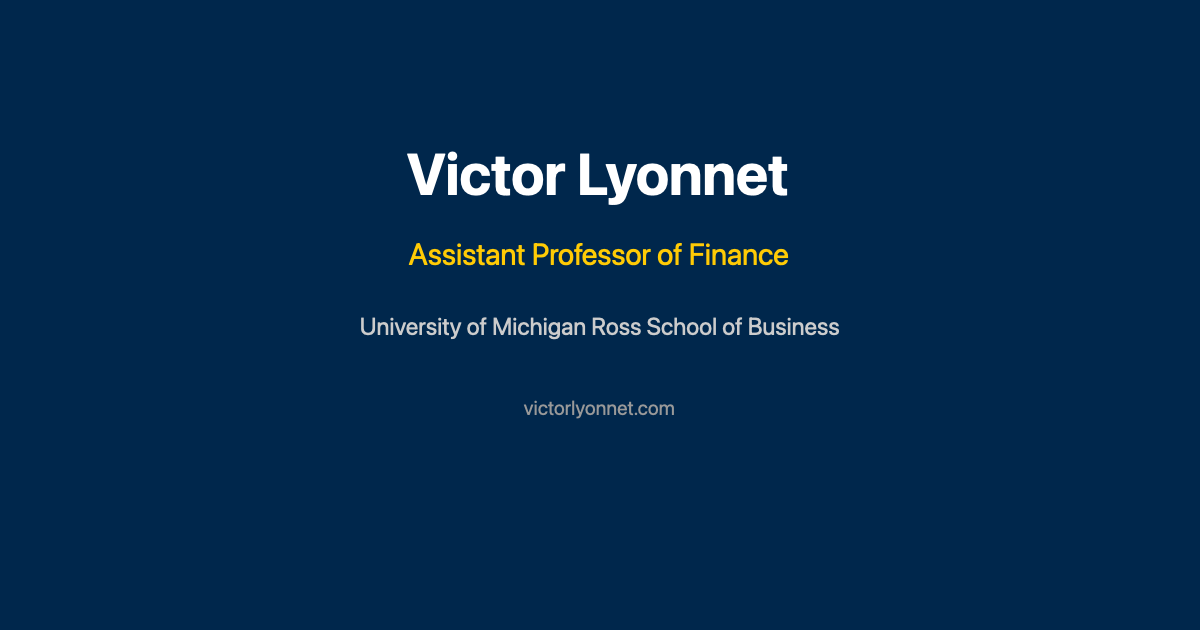
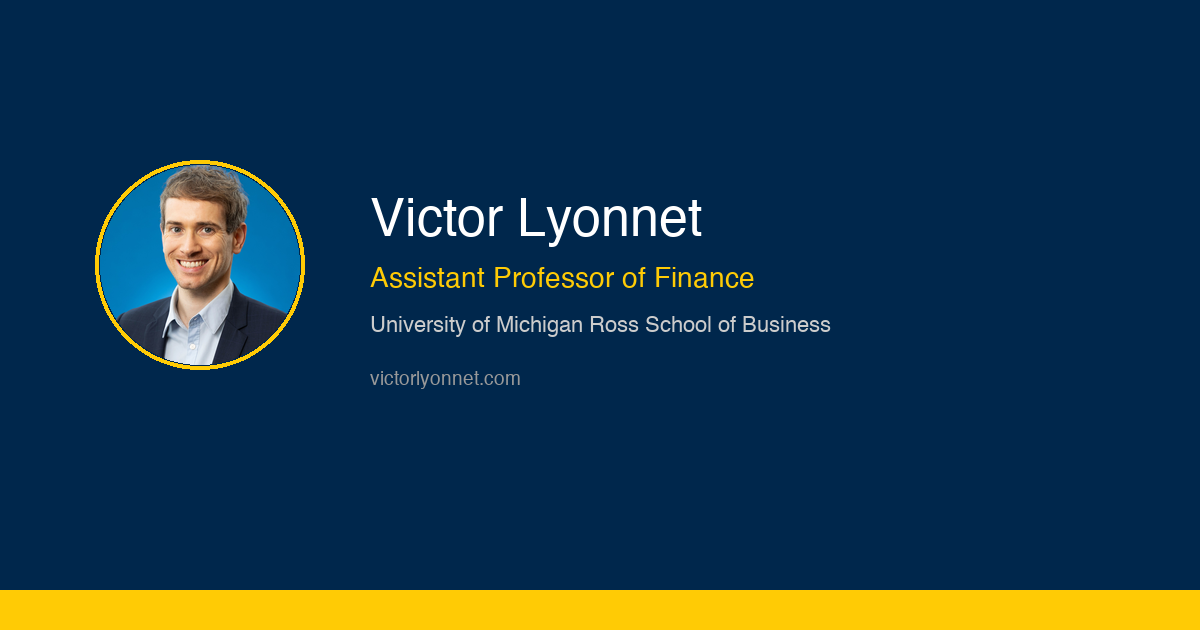
Fix duplicate name in title tag, add photo to OG sharing image
- Change page title from "Victor Lyonnet | Assistant Professor of Finance"
  to "Assistant Professor of Finance" to avoid duplication when Hugo appends
  the site title. Result: "Assistant Professor of Finance | Victor Lyonnet"
- Regenerate OG sharing image with circular headshot, maize border ring,
  and text on the right. Used for LinkedIn, Twitter, and Facebook previews.

diff --git a/content/_index.md b/content/_index.md
@@ -1,5 +1,5 @@
 ---
-title: 'Victor Lyonnet | Assistant Professor of Finance'
+title: 'Assistant Professor of Finance'
 summary: 'Victor Lyonnet is an Assistant Professor of Finance at the University of Michigan Ross School of Business. His research focuses on entrepreneurship, financial intermediation, corporate finance, and insurance.'
 date: 2024-01-01
 type: landing
